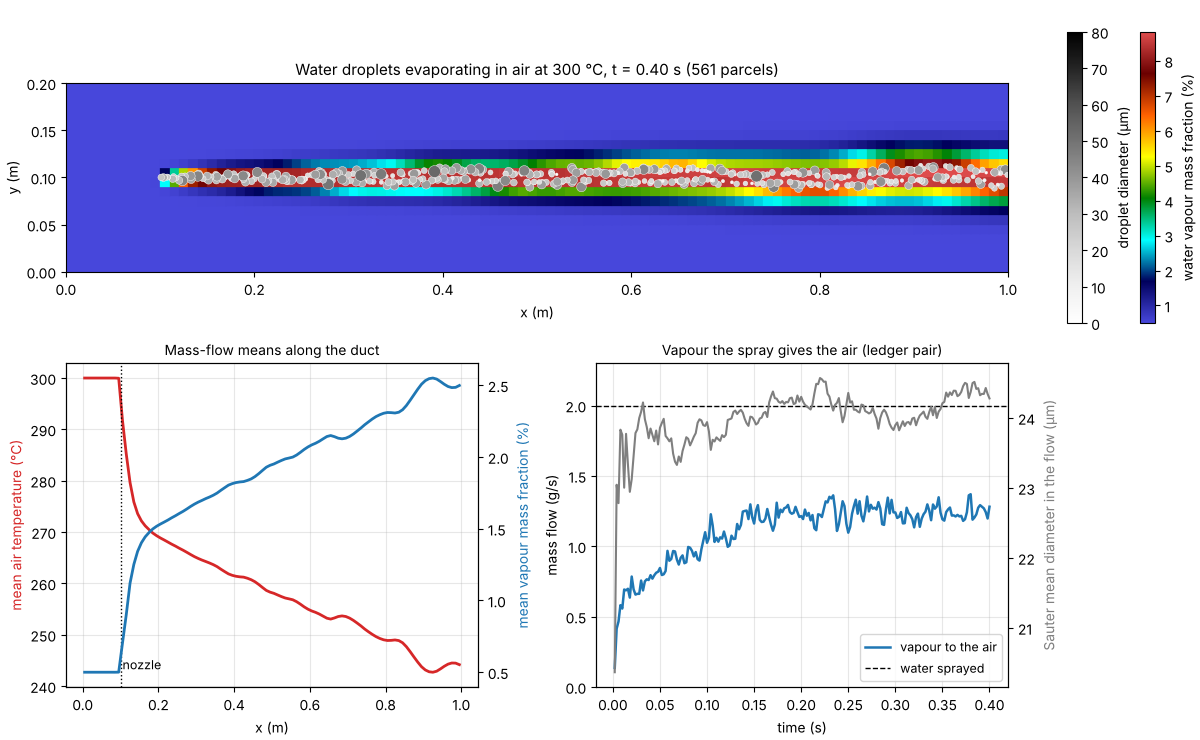
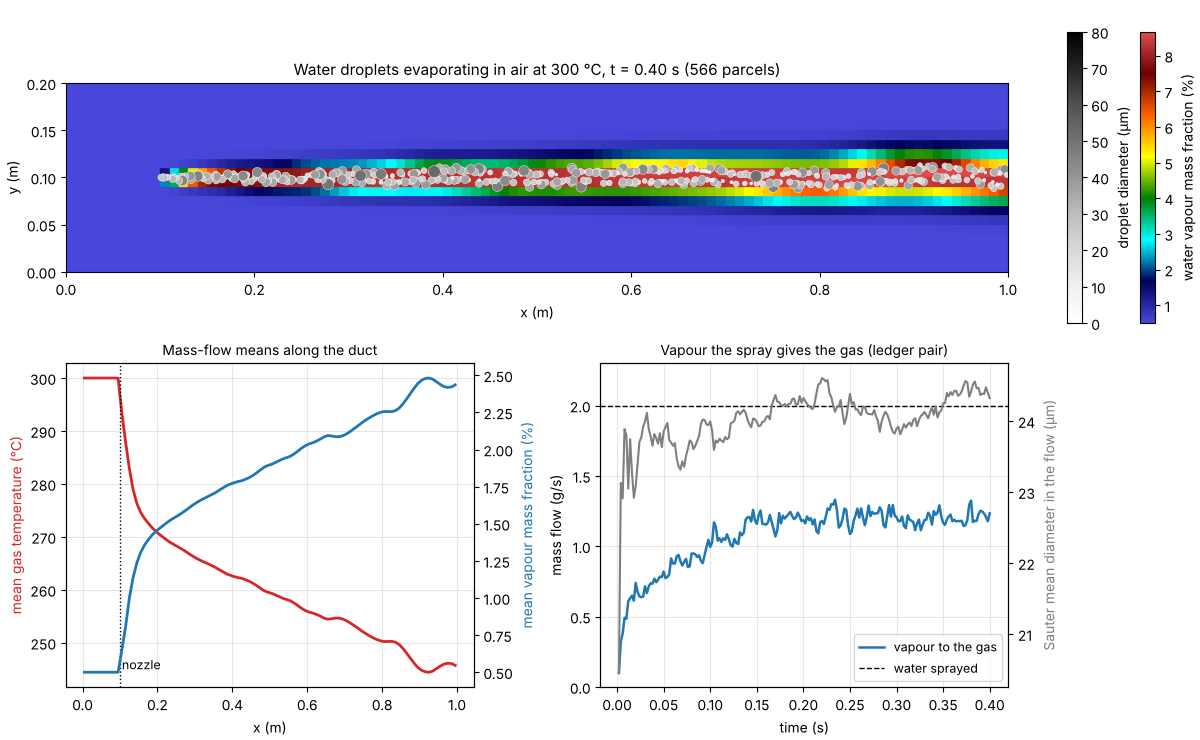
spray: heptane duct image, water case image with the 1/3 rule
Claude-Session: https://claude.ai/code/session_012imjwq5mactgze8njzmaSG

diff --git a/tools/plot/spray_evaporation.py b/tools/plot/spray_evaporation.py
@@ -11,6 +11,11 @@ nozzle sprays, and the Sauter mean diameter of the droplets in the flow.
     pip install matplotlib h5py numpy
     target/release/foehn flow examples/cases/flow/spray_evaporation.toml --out output/spray_evaporation
     python3 -m tools.plot.spray_evaporation OUT_DIR output/spray_evaporation
+
+The n-heptane case of the liquid library (D320, D321) takes the same chart:
+
+    target/release/foehn flow examples/cases/flow/spray_heptane_evaporation.toml --out output/spray_heptane_evaporation
+    python3 -m tools.plot.spray_evaporation OUT_DIR output/spray_heptane_evaporation heptane
 """
 import glob
 import os
@@ -51,9 +56,17 @@ def column(csv, c):
     return csv[c]
 
 
-def plot(out, run):
+#: (species, liquid in titles, gas in titles, sprayed g/s, image, vapour colour bar top or None)
+CASES = {
+    "water": ("H2O", "Water", "air at 300 °C", "water", 2.0, "spray_evaporation.png"),
+    "heptane": ("NC7H16", "n-Heptane", "nitrogen at 327 °C", "n-heptane", 1.0, "spray_heptane_evaporation.png"),
+}
+
+
+def plot(out, run, which="water"):
+    sp, liquid, gas, word, sprayed, image = CASES[which]
     quads, _, d = read(os.path.join(run, "fields.vtkhdf"))
-    y = field(d, "Y_H2O")
+    y = field(d, f"Y_{sp}")
     temp = field(d, "temperature")
     ux = field(d, "velocity_x")
     last = sorted(glob.glob(os.path.join(run, "spray", "parcels_*.vtkhdf")))[-1]
@@ -64,7 +77,7 @@ def plot(out, run):
     ax = fig.add_subplot(gs[0, :])
     pc = PolyCollection(quads, array=y * 100.0, cmap=RAINBOW, edgecolors="face", linewidths=0.2)
     ax.add_collection(pc)
-    fig.colorbar(pc, ax=ax, label="water vapour mass fraction (%)", shrink=1.0, pad=0.01)
+    fig.colorbar(pc, ax=ax, label=f"{word} vapour mass fraction (%)", shrink=1.0, pad=0.01)
     sc = ax.scatter(
         x[:, 0], x[:, 1], c=dp * 1e6, s=4.0 + (dp * 1e6) ** 2 / 40.0, cmap="Greys", vmin=0.0, vmax=80.0,
         edgecolors="white", linewidths=0.3, zorder=3,
@@ -76,7 +89,7 @@ def plot(out, run):
     ax.set_xlabel("x (m)")
     ax.set_ylabel("y (m)")
     ax.set_title(
-        f"Water droplets evaporating in air at 300 °C, t = {attrs['time']:.2f} s ({len(x)} parcels)",
+        f"{liquid} droplets evaporating in {gas}, t = {attrs['time']:.2f} s ({len(x)} parcels)",
         fontsize=11,
     )
     # mass-flow means per column of cells
@@ -90,7 +103,7 @@ def plot(out, run):
     a.axvline(0.1, color="k", ls=":", lw=1.0)
     a.text(0.105, tm.min() - 273.15, "nozzle", fontsize=9, va="bottom")
     a.set_xlabel("x (m)")
-    a.set_ylabel("mean air temperature (°C)", color="tab:red")
+    a.set_ylabel("mean gas temperature (°C)", color="tab:red")
     a.grid(alpha=0.3)
     a2 = a.twinx()
     a2.plot(cols, ym * 100.0, color="tab:blue", lw=2.0)
@@ -98,25 +111,28 @@ def plot(out, run):
     a.set_title("Mass-flow means along the duct", fontsize=10)
     b = fig.add_subplot(gs[1, 1])
     t = column(csv, "time")
-    b.plot(t, column(csv, "gas_vapour_kg_s") * 1000.0, color="tab:blue", lw=1.8, label="vapour to the air")
-    b.axhline(2.0, color="k", ls="--", lw=1.0, label="water sprayed")
+    b.plot(t, column(csv, "gas_vapour_kg_s") * 1000.0, color="tab:blue", lw=1.8, label="vapour to the gas")
+    b.axhline(sprayed, color="k", ls="--", lw=1.0, label=f"{word} sprayed")
     b.set_xlabel("time (s)")
     b.set_ylabel("mass flow (g/s)")
-    b.set_ylim(0.0, 2.3)
+    b.set_ylim(0.0, 1.15 * sprayed)
     b.grid(alpha=0.3)
     b.legend(fontsize=9, loc="lower right")
     b2 = b.twinx()
     b2.plot(t, column(csv, "d32_m") * 1e6, color="tab:gray", lw=1.5)
     b2.set_ylabel("Sauter mean diameter in the flow (µm)", color="tab:gray")
-    b.set_title("Vapour the spray gives the air (ledger pair)", fontsize=10)
-    fig.savefig(os.path.join(out, "spray_evaporation.png"), dpi=100)
+    b.set_title("Vapour the spray gives the gas (ledger pair)", fontsize=10)
+    fig.savefig(os.path.join(out, image), dpi=100)
     plt.close(fig)
 
 
 def main():
     out, run = sys.argv[1], sys.argv[2]
+    which = sys.argv[3] if len(sys.argv) > 3 else "water"
+    if which not in CASES:
+        raise SystemExit(f"unknown case `{which}`; it is one of {', '.join(CASES)}")
     os.makedirs(out, exist_ok=True)
-    plot(out, run)
+    plot(out, run, which)
 
 
 if __name__ == "__main__":

diff --git a/crates/foehncraft-flow/examples/droplet_heptane.rs b/crates/foehncraft-flow/examples/droplet_heptane.rs
@@ -128,7 +128,7 @@ fn main() -> Result<()> {
         )?;
     }
     std::fs::write(format!("{out}/history.csv"), hist)?;
-    std::fs::write(format!("{out}/rates.csv"), rates)?;
+    std::fs::write(format!("{out}/rates.csv"), &rates)?;
     print!("{rates}");
     Ok(())
 }
